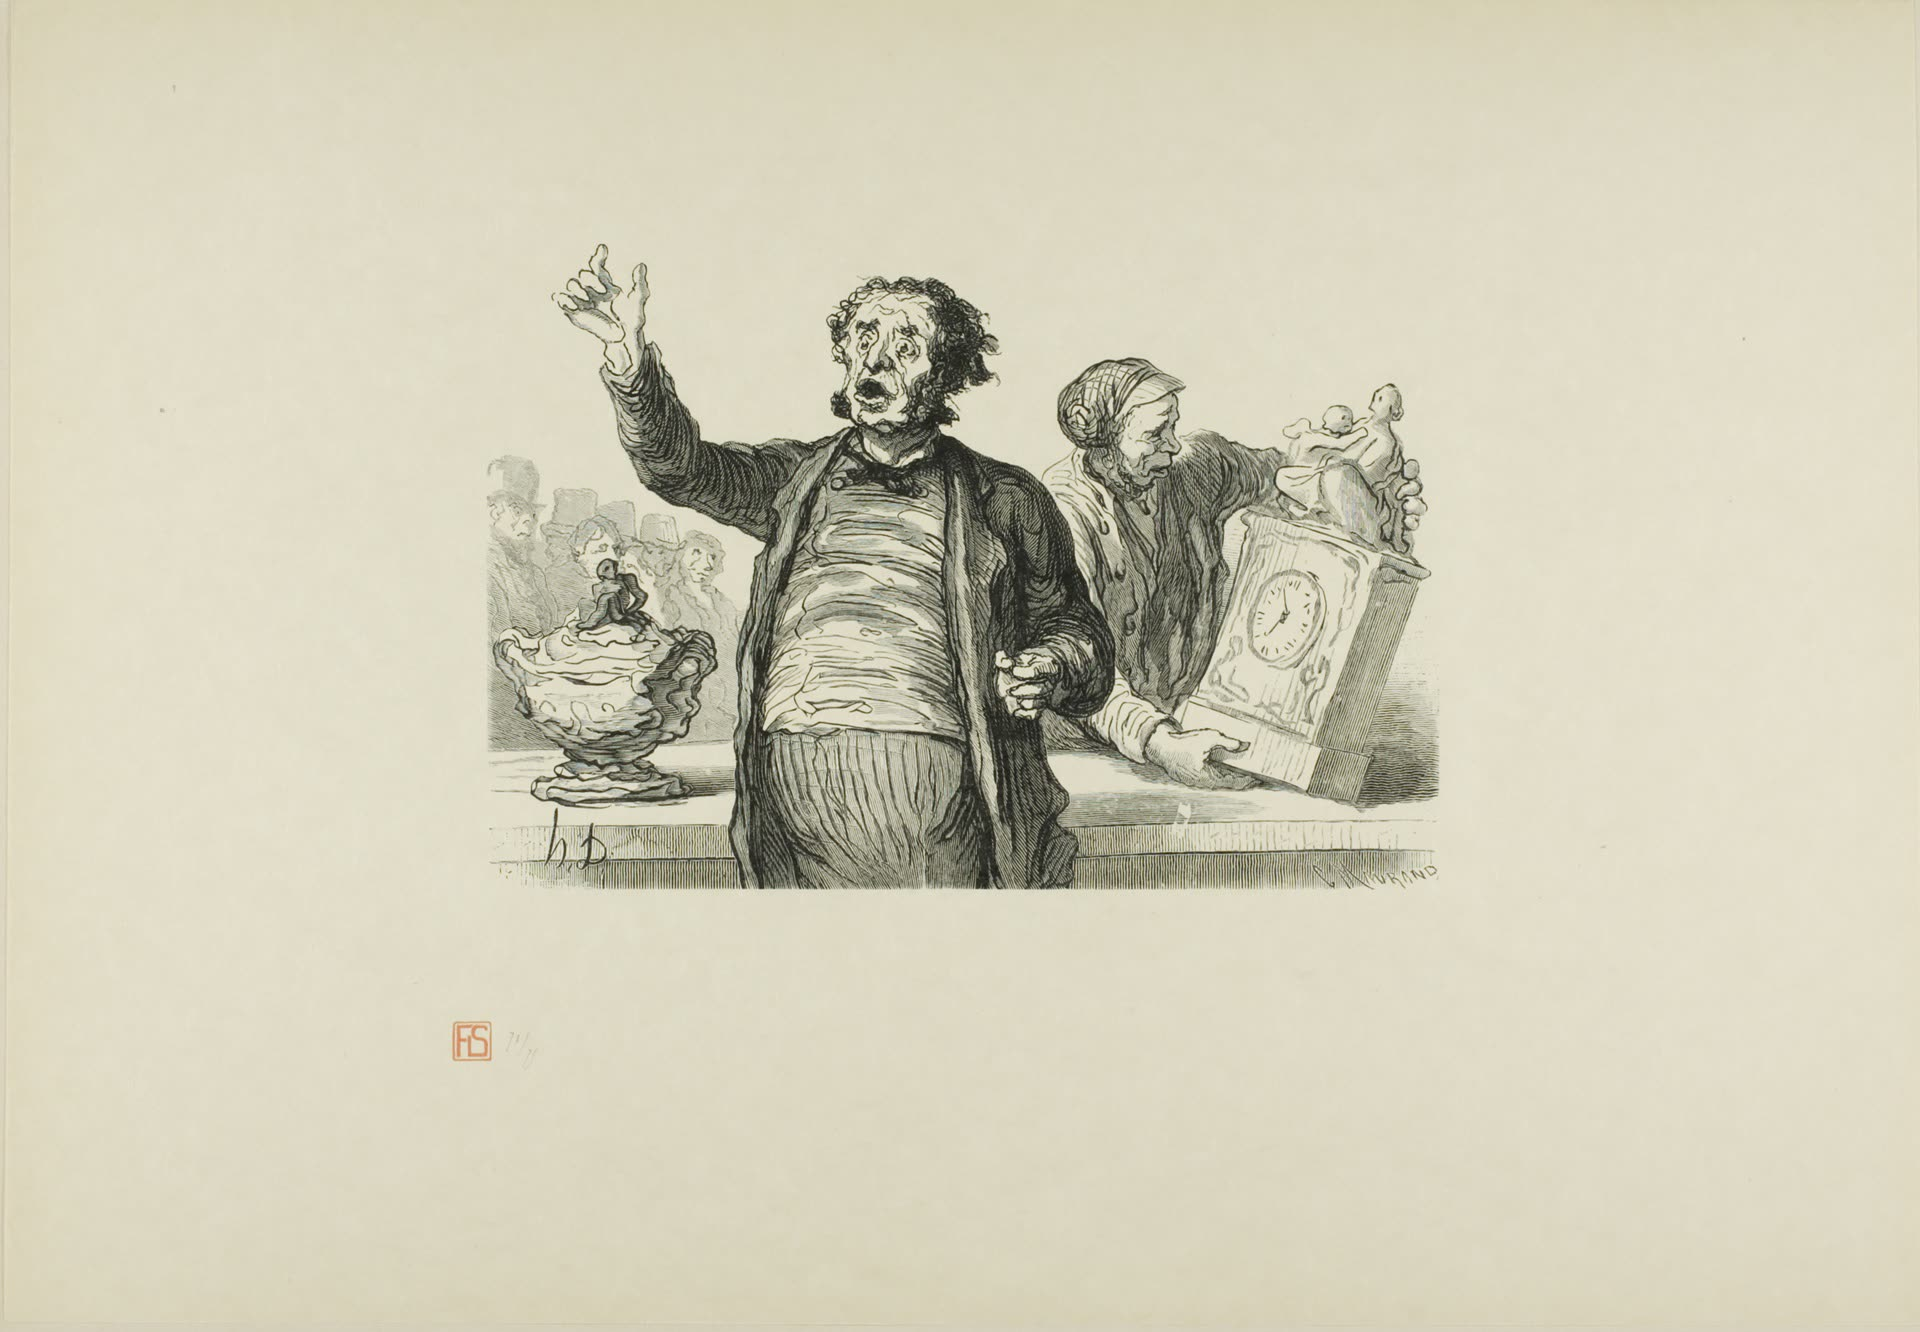
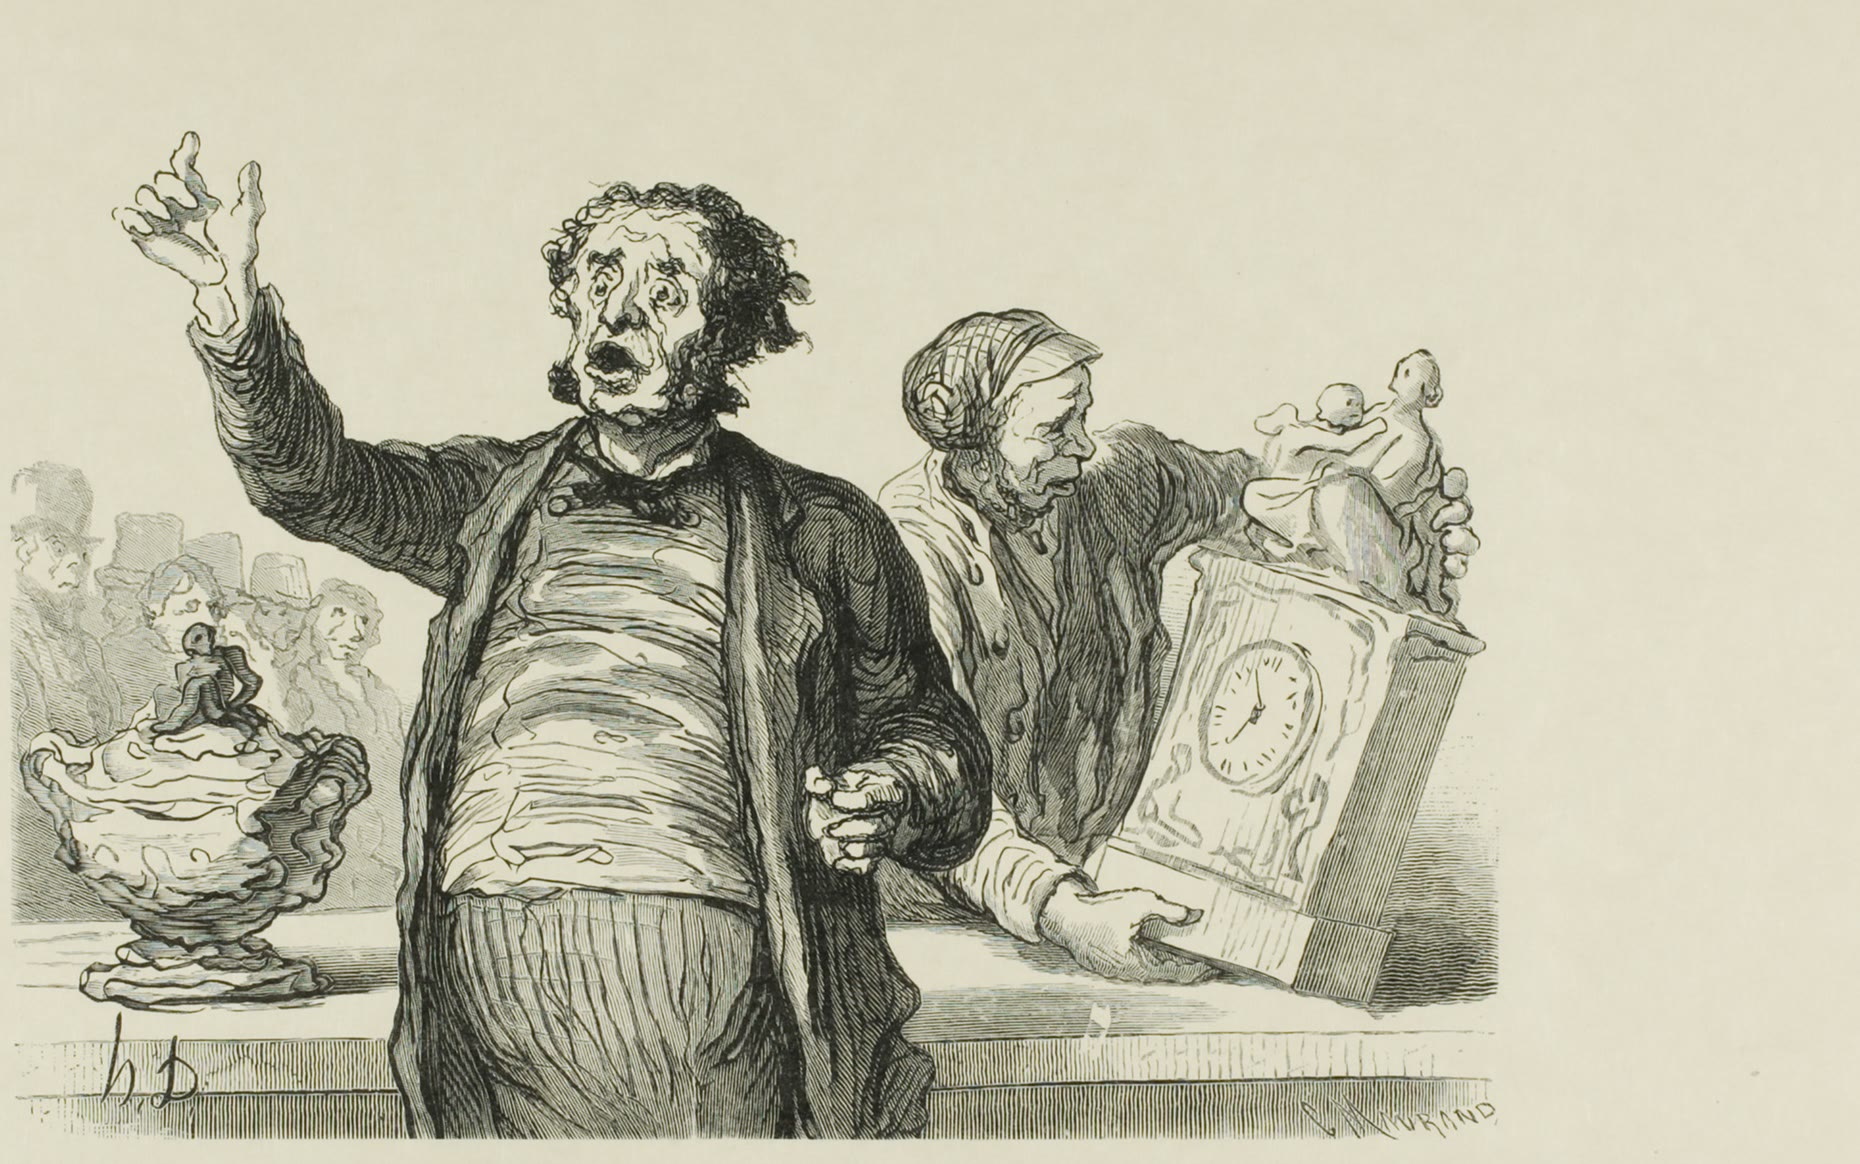
feat(prototype): show the light beside the card and refine sections
Move the room's opening to the left so the beam the visitor turns falls
beside and below the hero card, crop the auctioneer engraving to its
picture, enlarge the interface fragments and the about circle, keep the
stub and smooth scrolling to wide screens, and format the prototype for
the project checks.

Refs FIR-337

diff --git a/prototype/index.html b/prototype/index.html
@@ -43,12 +43,7 @@
     <div id="smooth-wrapper">
       <div id="smooth-content">
         <main id="main">
-          <section
-            class="hero scene"
-            id="top"
-            data-scene="hero-card"
-            aria-labelledby="hero-title"
-          >
+          <section class="hero scene" id="top" data-scene="hero-card" aria-labelledby="hero-title">
             <div class="scene-stage hero__stage">
               <div class="hero__room" data-slot="room" data-state="still">
                 <img
@@ -79,8 +74,8 @@
                 </div>
                 <div class="hero__field" data-slot="light-field">
                   <label for="light">Lumière de la salle</label>
-                  <input id="light" type="range" min="-40" max="40" step="1" value="-14" />
-                  <output for="light" id="light-value">-14°</output>
+                  <input id="light" type="range" min="-40" max="40" step="1" value="8" />
+                  <output for="light" id="light-value">8°</output>
                 </div>
                 <div class="hero__foot">
                   <a class="link" href="https://github.com/Firzus">GitHub</a>
@@ -108,8 +103,8 @@
                 />
               </div>
               <figcaption class="intro__note">
-                Chambre noire, XVIIᵉ siècle. Un trou dans le mur, et la lumière dessine le paysage
-                à l'envers sur la paroi.
+                Chambre noire, XVIIᵉ siècle. Un trou dans le mur, et la lumière dessine le paysage à
+                l'envers sur la paroi.
               </figcaption>
             </figure>
           </section>
@@ -145,10 +140,10 @@
                 <img
                   class="plate__img"
                   src="assets/auctioneer.jpg"
-                  width="1920"
-                  height="1332"
+                  width="1860"
+                  height="1164"
                   loading="lazy"
-                  style="--focus: 50% 45%"
+                  style="--focus: 40% 35%"
                   alt="Gravure sur bois de 1864 : un commissaire-priseur lève le bras pendant une vente."
                 />
               </div>
@@ -239,7 +234,9 @@
                   </div>
                   <div class="piece__panel">
                     <h3 class="piece__name">Le site</h3>
-                    <p class="piece__desc">Guides, panoplies et prix relevés à l'hôtel des ventes.</p>
+                    <p class="piece__desc">
+                      Guides, panoplies et prix relevés à l'hôtel des ventes.
+                    </p>
                   </div>
                 </li>
                 <li class="piece">
@@ -248,12 +245,16 @@
                       <p class="ui__head">Huzounet</p>
                       <p class="ui__ok">Code créateur appliqué</p>
                       <p class="ui__row">Boutique partenaire · HUZ</p>
-                      <p class="ui__warn">Ce site imite une page de connexion. Ne saisissez pas votre mot de passe.</p>
+                      <p class="ui__warn">
+                        Ce site imite une page de connexion. Ne saisissez pas votre mot de passe.
+                      </p>
                     </div>
                   </div>
                   <div class="piece__panel">
                     <h3 class="piece__name">L'extension</h3>
-                    <p class="piece__desc">Applique les codes créateur et signale les sites d'hameçonnage.</p>
+                    <p class="piece__desc">
+                      Applique les codes créateur et signale les sites d'hameçonnage.
+                    </p>
                   </div>
                 </li>
                 <li class="piece">
@@ -261,13 +262,17 @@
                     <div class="ui ui--overlay" data-ui>
                       <p class="ui__head">PNJ Dofus</p>
                       <p class="ui__search">Maître de l'Atelier</p>
-                      <p class="ui__command"><span>/travel 4,-19</span><span class="ui__chip">Copié</span></p>
+                      <p class="ui__command">
+                        <span>/travel 4,-19</span><span class="ui__chip">Copié</span>
+                      </p>
                       <p class="ui__row">Astrub · Atelier des tailleurs</p>
                     </div>
                   </div>
                   <div class="piece__panel">
                     <h3 class="piece__name">PNJ Dofus</h3>
-                    <p class="piece__desc">Une fenêtre au-dessus du jeu qui copie le chemin vers un PNJ.</p>
+                    <p class="piece__desc">
+                      Une fenêtre au-dessus du jeu qui copie le chemin vers un PNJ.
+                    </p>
                   </div>
                 </li>
                 <li class="piece">
@@ -304,7 +309,9 @@
                   </div>
                   <div class="piece__panel">
                     <h3 class="piece__name">Les données</h3>
-                    <p class="piece__desc">Extrait les tables et les textes de chaque version du jeu.</p>
+                    <p class="piece__desc">
+                      Extrait les tables et les textes de chaque version du jeu.
+                    </p>
                   </div>
                 </li>
               </ul>
@@ -391,17 +398,25 @@
               <p class="footer__head">Images</p>
               <p>
                 Chambre noire, XVIIᵉ siècle ; Philips Galle, Le Colosse de Rhodes, 1572 (Met, CC0) ;
-                Charles Maurand, Le commissaire-priseur, 1864 (Art Institute of Chicago, CC0) ;
-                Les automates de Vaucanson, gravure du XVIIIᵉ siècle ; Konrad Miller, carte du
-                monde de Ravenne, 1898. Domaine public, via Wikimedia Commons sauf mention.
+                Charles Maurand, Le commissaire-priseur, 1864 (Art Institute of Chicago, CC0) ; Les
+                automates de Vaucanson, gravure du XVIIIᵉ siècle ; Konrad Miller, carte du monde de
+                Ravenne, 1898. Domaine public, via Wikimedia Commons sauf mention.
               </p>
             </div>
           </div>
           <!-- textLength makes the name run exactly from margin to margin at any width. -->
-          <svg class="footer__wordmark footer__wordmark--line" viewBox="0 0 1000 150" aria-hidden="true">
+          <svg
+            class="footer__wordmark footer__wordmark--line"
+            viewBox="0 0 1000 150"
+            aria-hidden="true"
+          >
             <text x="0" y="122" textLength="1000" lengthAdjust="spacing">Lilian PRIEU</text>
           </svg>
-          <svg class="footer__wordmark footer__wordmark--stack" viewBox="0 0 1000 560" aria-hidden="true">
+          <svg
+            class="footer__wordmark footer__wordmark--stack"
+            viewBox="0 0 1000 560"
+            aria-hidden="true"
+          >
             <text x="0" y="245" textLength="1000" lengthAdjust="spacing">Lilian</text>
             <text x="0" y="530" textLength="1000" lengthAdjust="spacing">PRIEU</text>
           </svg>

diff --git a/prototype/room-still.html b/prototype/room-still.html
@@ -1,8 +1,37 @@
-<!doctype html><html><head><style>html,body{margin:0;background:#0c1013}div{position:fixed;inset:0}canvas{width:100%;height:100%}</style>
-<!-- Renders the room alone; its screenshot at 1600x1000 is assets/room.jpg, the still shown without WebGL or script. -->
-<script type="importmap">{"imports":{"three":"https://cdn.jsdelivr.net/npm/three@0.187.0/build/three.module.js"}}</script></head>
-<body><div><canvas></canvas></div><script type="module">
-import { createRoom } from "./scene.js";
-const r = createRoom(document.querySelector("canvas"), { lightColor: "#5fe0f0", groundColor: "#0c1013", animate: false });
-r.setAngle(-14); r.render();
-</script></body></html>
+<!doctype html>
+<html>
+  <head>
+    <style>
+      html,
+      body {
+        margin: 0;
+        background: #0c1013;
+      }
+      div {
+        position: fixed;
+        inset: 0;
+      }
+      canvas {
+        width: 100%;
+        height: 100%;
+      }
+    </style>
+    <!-- Renders the room alone; its screenshot at 1600x1000 is assets/room.jpg, the still shown without WebGL or script. -->
+    <script type="importmap">
+      { "imports": { "three": "https://cdn.jsdelivr.net/npm/three@0.187.0/build/three.module.js" } }
+    </script>
+  </head>
+  <body>
+    <div><canvas></canvas></div>
+    <script type="module">
+      import { createRoom } from "./scene.js";
+      const r = createRoom(document.querySelector("canvas"), {
+        lightColor: "#5fe0f0",
+        groundColor: "#0c1013",
+        animate: false,
+      });
+      r.setAngle(8);
+      r.render();
+    </script>
+  </body>
+</html>

diff --git a/prototype/main.js b/prototype/main.js
@@ -140,13 +140,23 @@ media.add(
             onUpdate: (self) => roomControls?.setProgress(self.progress),
           },
         })
-        .to(card, { scale: 0.3, x: () => -card.offsetLeft + 24, y: () => window.innerHeight - card.offsetTop - card.offsetHeight - 24, ease: "none" }, 0)
+        .to(
+          card,
+          {
+            scale: 0.3,
+            x: () => -card.offsetLeft + 24,
+            y: () => window.innerHeight - card.offsetTop - card.offsetHeight - 24,
+            ease: "none",
+          },
+          0,
+        )
         .to(card, { autoAlpha: 0, duration: 0.15, ease: "none" }, 0.85);
 
       // Showcase: the map is held while the four cards cross it from right to left.
       const track = showcase.querySelector(".showcase__track");
       const title = showcase.querySelector(".showcase__title");
-      const distance = () => track.scrollWidth - window.innerWidth * 0.5 - track.lastElementChild.offsetWidth / 2;
+      const distance = () =>
+        track.scrollWidth - window.innerWidth * 0.5 - track.lastElementChild.offsetWidth / 2;
       gsap
         .timeline({
           scrollTrigger: {
@@ -230,4 +240,4 @@ media.add(
 
 // Images load lazily and the web font changes text widths: both move every trigger.
 window.addEventListener("load", () => ScrollTrigger.refresh());
-document.fonts?.ready.then(() => ScrollTrigger.refresh());
+void document.fonts?.ready.then(() => ScrollTrigger.refresh());

diff --git a/prototype/scene.js b/prototype/scene.js
@@ -111,7 +111,7 @@ export function createRoom(canvas, { lightColor, groundColor, animate }) {
 
   scene.add(new THREE.HemisphereLight(0x6f8a92, 0x050708, 0.18));
 
-  const source = new THREE.Vector3(0, 8.6, -8.2);
+  const source = new THREE.Vector3(-4.6, 8.6, -8.2);
   const spot = new THREE.SpotLight(light, 520, 40, 0.34, 0.55, 1.4);
   spot.position.copy(source);
   spot.castShadow = true;
@@ -148,7 +148,7 @@ export function createRoom(canvas, { lightColor, groundColor, animate }) {
   const target = new THREE.Vector3();
   function aim(degrees) {
     const angle = THREE.MathUtils.degToRad(degrees);
-    target.set(Math.sin(angle) * 9, 0, -8.2 + Math.cos(angle) * 9);
+    target.set(source.x + Math.sin(angle) * 12, 0, source.z + Math.cos(angle) * 12);
     spot.target.position.copy(target);
     spot.target.updateMatrixWorld();
     const axis = source.clone().sub(target);

diff --git a/prototype/style.css b/prototype/style.css
@@ -245,10 +245,8 @@ a {
   position: relative;
   z-index: 1;
   display: grid;
-  grid-template-rows: auto 1fr auto auto;
-  gap: 2rem;
+  gap: 2.5rem;
   width: min(58vw, 54rem);
-  min-height: min(56svh, 34rem);
   padding: 2rem;
   background: var(--color-raised);
   transform-origin: 0% 100%;
@@ -528,6 +526,11 @@ a {
   height: min(35rem, 62svh);
 }
 
+.showcase.is-live [data-ui].ui {
+  width: min(100%, 30rem);
+  font-size: 1rem;
+}
+
 /* Interface fragments: the products' own conventions apply inside [data-ui]. */
 
 [data-ui].ui {
@@ -653,8 +656,8 @@ a {
 .about__shape {
   position: absolute;
   left: 3.5rem;
-  bottom: calc(min(38vw, 34rem) * -0.2);
-  width: min(38vw, 34rem);
+  bottom: calc(min(46vw, 42rem) * -0.2);
+  width: min(46vw, 42rem);
   aspect-ratio: 1;
   clip-path: circle(50%);
 }
